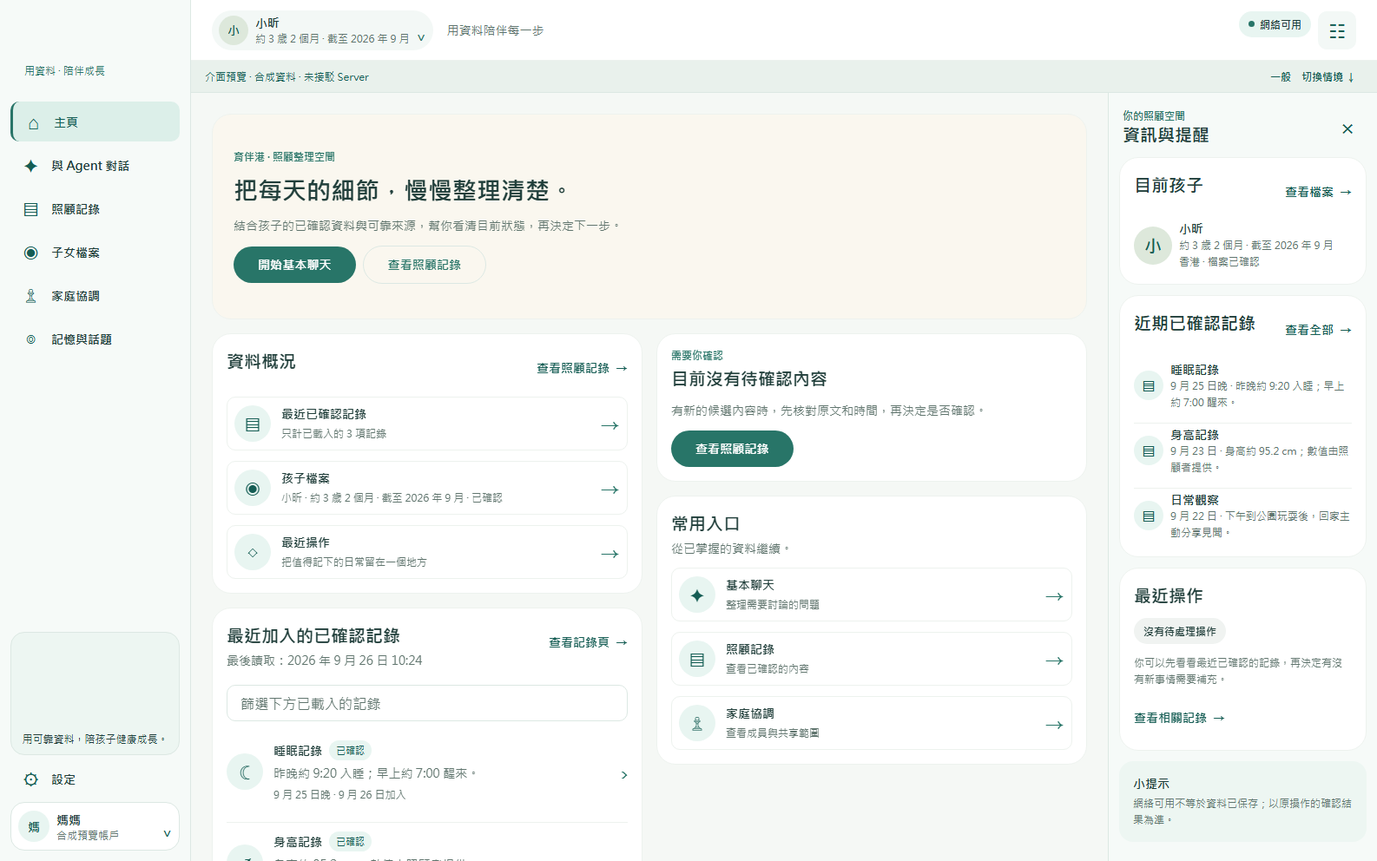
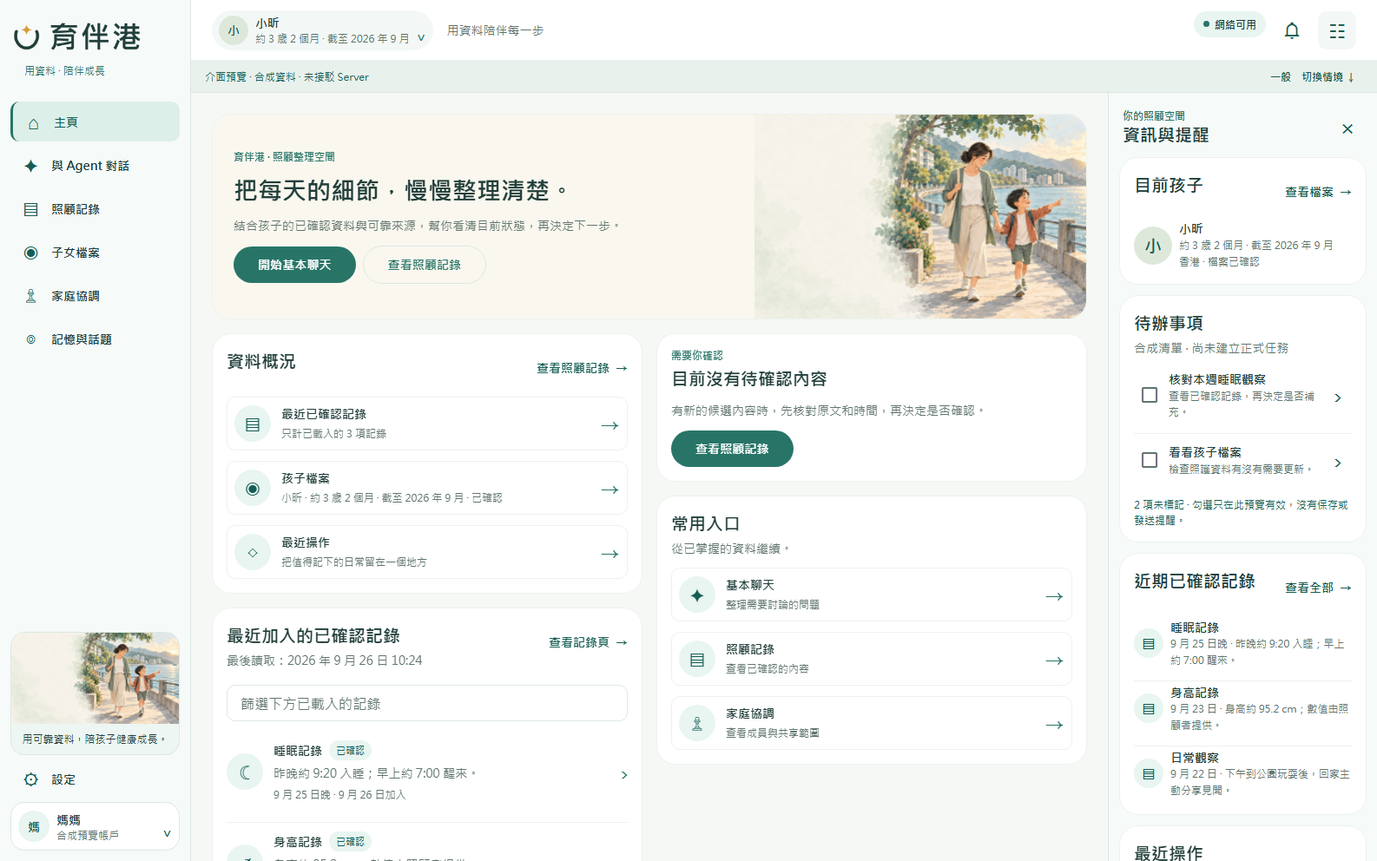
Add frontend preview todos and status bell

diff --git a/frontend/src/components/AppShell.tsx b/frontend/src/components/AppShell.tsx
@@ -3,9 +3,12 @@ import { usePathname, useRouter } from "expo-router";
 import { Image, Pressable, ScrollView, StyleSheet, View, useWindowDimensions } from "react-native";
 import { Button, Dialog, Divider, Modal, Portal, RadioButton, Text } from "react-native-paper";
 import { ConnectionPill, OperationPill, SectionCard, SectionHeader, TextLink } from "./ui";
+import { NotificationBell } from "./NotificationBell";
+import { PreviewTodoCard } from "./PreviewTodoCard";
 import { chineseFont, colors, radius, spacing, typeScale } from "../theme";
-import { scenarioLabels, type PreviewScenario } from "../preview/fixture";
+import { previewChecklist, scenarioLabels, type PreviewScenario } from "../preview/fixture";
 import { usePreview } from "../preview/PreviewContext";
+import type { HomeActions, HomeViewModel } from "../view-model";
 
 const logo = require("../../assets/brand/logo-horizontal.png");
 const harbourArt = require("../../assets/images/harbour-family-hero.png");
@@ -84,10 +87,16 @@ function PreviewToolbar() {
   </View>;
 }
 
-function RightRail({ onClose }: { onClose: () => void }) {
-  const { model, actions } = usePreview();
+function RightRail({ model, actions, checkedPreviewItems, togglePreviewItem, onClose }: {
+  model: HomeViewModel;
+  actions: HomeActions;
+  checkedPreviewItems: Record<string, boolean>;
+  togglePreviewItem: (id: string) => void;
+  onClose: () => void;
+}) {
   const child = model.children.find(item => item.id === model.selectedChildId);
   const records = model.records.filter(item => item.childId === model.selectedChildId).slice(0, 3);
+  const checklist = previewChecklist.filter(item => item.childId === model.selectedChildId);
   return <View style={styles.rail}>
     <View style={styles.railHeader}>
       <View><Text style={styles.railEyebrow}>你的照顧空間</Text><Text accessibilityRole="header" style={styles.railTitle}>資訊與提醒</Text></View>
@@ -101,6 +110,7 @@ function RightRail({ onClose }: { onClose: () => void }) {
           <View style={styles.railIdentityText}><Text style={styles.railRecordTitle}>{child.displayName}</Text><Text style={styles.railMeta}>{child.ageLabel}</Text><Text style={styles.railMeta}>{child.regionLabel} · {child.profileConfirmed ? "檔案已確認" : "檔案待核對"}</Text></View>
         </View> : <Text style={styles.railMeta}>尚未選擇孩子；請先建立檔案。</Text>}
       </SectionCard>
+      <PreviewTodoCard items={checklist} checked={checkedPreviewItems} onToggle={togglePreviewItem} onOpen={actions.open} />
       <SectionCard>
         <SectionHeader title="近期已確認記錄" action={<TextLink label="查看全部" onPress={() => actions.open("care")} />} />
         {model.recordsLoad === "loading" ? <Text style={styles.railMeta}>正在讀取記錄…</Text> : records.length === 0 ? <Text style={styles.railMeta}>目前沒有已載入記錄。</Text> : records.map((record, index) => <View key={record.id}>
@@ -131,9 +141,10 @@ export function AppShell({ children }: { children: ReactNode }) {
   const pathname = usePathname();
   const { width } = useWindowDimensions();
   const compact = width < 900;
-  const tiny = width < 360;
+  const tiny = width < 390;
   const wide = width >= 1280;
-  const { model, notice, dismissNotice } = usePreview();
+  const { model, actions, checkedPreviewItems, togglePreviewItem, notice, dismissNotice } = usePreview();
+  const railProps = { model, actions, checkedPreviewItems, togglePreviewItem };
   const [railOpen, setRailOpen] = useState(true);
   const [railModal, setRailModal] = useState(false);
   const [accountOpen, setAccountOpen] = useState(false);
@@ -166,18 +177,18 @@ export function AppShell({ children }: { children: ReactNode }) {
         {!compact ? <Text numberOfLines={1} style={styles.topContext}>用資料陪伴每一步</Text> : null}
         <View style={styles.topActions}>
           {!compact ? <ConnectionPill state={model.connection} /> : null}
+          <NotificationBell operation={model.operation} connection={model.connection} onReview={actions.reviewOperation} />
           <Pressable accessibilityRole="button" accessibilityLabel={wide && railOpen ? "收起資訊側欄" : "開啟資訊側欄"}
             accessibilityState={{ expanded: wide ? railOpen : railModal }}
             onPress={() => wide ? setRailOpen(value => !value) : setRailModal(true)}
             style={({ pressed }) => [styles.infoAction, tiny && styles.infoActionTiny, pressed && styles.pressed]}><Text style={styles.infoActionText}>☷</Text></Pressable>
-          {compact ? <Pressable accessibilityRole="button" accessibilityLabel="用戶選單" onPress={() => setAccountOpen(true)} style={({ pressed }) => [styles.smallAccount, tiny && styles.smallAccountTiny, pressed && styles.pressed]}><Text style={styles.accountAvatarText}>{model.caregiverName.slice(0, 1)}</Text></Pressable> : null}
         </View>
       </View>
       <PreviewToolbar />
       {notice ? <Pressable accessibilityRole="button" accessibilityLabel="關閉預覽提示" onPress={dismissNotice} style={styles.notice}><Text style={styles.noticeText}>{notice}　×</Text></Pressable> : null}
       <View style={styles.body}>
         <View style={styles.content}>{children}</View>
-        {wide && railOpen ? <RightRail onClose={() => setRailOpen(false)} /> : null}
+        {wide && railOpen ? <RightRail {...railProps} onClose={() => setRailOpen(false)} /> : null}
       </View>
       {compact ? <View style={styles.bottomNav}>
         {navigation.slice(0, 4).map(item => <NavItem key={item.href} item={item} active={active(item.href)} compact />)}
@@ -186,7 +197,7 @@ export function AppShell({ children }: { children: ReactNode }) {
     </View>
     <Portal>
       <Modal visible={railModal && !wide} onDismiss={() => setRailModal(false)} contentContainerStyle={styles.railModal}>
-        <RightRail onClose={() => setRailModal(false)} />
+        <RightRail {...railProps} onClose={() => setRailModal(false)} />
       </Modal>
       <Dialog visible={accountOpen} onDismiss={() => setAccountOpen(false)}>
         <Dialog.Title>用戶與帳戶</Dialog.Title>
@@ -203,6 +214,7 @@ export function AppShell({ children }: { children: ReactNode }) {
           <Button onPress={() => { setMoreOpen(false); router.push("/family"); }}>家庭協調</Button>
           <Button onPress={() => { setMoreOpen(false); router.push("/memory"); }}>記憶與話題</Button>
           <Button onPress={() => { setMoreOpen(false); router.push("/settings"); }}>設定</Button>
+          <Button onPress={() => { setMoreOpen(false); setAccountOpen(true); }}>用戶與帳戶</Button>
         </Dialog.Content>
         <Dialog.Actions><Button onPress={() => setMoreOpen(false)}>關閉</Button></Dialog.Actions>
       </Dialog>
@@ -252,8 +264,6 @@ const styles = StyleSheet.create({
   infoAction: { minWidth: 44, minHeight: 44, backgroundColor: colors.quietSurface, borderRadius: radius.small, alignItems: "center", justifyContent: "center" },
   infoActionTiny: { minWidth: 38, minHeight: 40 },
   infoActionText: { color: colors.deepTeal, fontSize: 23 },
-  smallAccount: { width: 40, height: 40, borderRadius: 20, backgroundColor: colors.paleAmber, alignItems: "center", justifyContent: "center" },
-  smallAccountTiny: { width: 36, height: 36, borderRadius: 18 },
   previewArea: { backgroundColor: colors.previewSurface, borderBottomWidth: 1, borderBottomColor: colors.line },
   previewLine: { minHeight: 36, paddingHorizontal: spacing.lg, flexDirection: "row", alignItems: "center", justifyContent: "space-between", gap: spacing.sm },
   previewLabel: { fontFamily: chineseFont, color: colors.deepTeal, fontSize: typeScale.caption, flexShrink: 1 },

diff --git a/frontend/src/components/PreviewTodoCard.tsx b/frontend/src/components/PreviewTodoCard.tsx
@@ -1,0 +1,58 @@
+import { Platform, Pressable, StyleSheet, View } from "react-native";
+import { Checkbox, Divider, Text } from "react-native-paper";
+import type { PreviewChecklistItem } from "../preview/fixture";
+import { chineseFont, colors, spacing, typeScale } from "../theme";
+import { SectionCard, SectionHeader } from "./ui";
+
+export function PreviewTodoCard({ items, checked, onToggle, onOpen }: {
+  items: PreviewChecklistItem[];
+  checked: Record<string, boolean>;
+  onToggle: (id: string) => void;
+  onOpen: (destination: PreviewChecklistItem["destination"]) => void;
+}) {
+  const remaining = items.filter(item => !checked[item.id]).length;
+  return <SectionCard>
+    <SectionHeader title="待辦事項" subtitle="合成清單 · 尚未建立正式任務" />
+    {items.length === 0 ? <Text style={styles.meta}>目前沒有可顯示的預覽事項。</Text> : items.map((item, index) => <View key={item.id}>
+      {index > 0 ? <Divider style={styles.divider} /> : null}
+      <View style={styles.row}>
+        <Pressable accessibilityRole="checkbox" accessibilityLabel={`在預覽中標記${item.title}`}
+          onPress={() => onToggle(item.id)} style={({ pressed }) => [styles.checkAction, pressed && styles.pressed]}
+            {...(Platform.OS === "web" ? {
+              "aria-checked": !!checked[item.id],
+              onKeyDown: (event: { key?: string; nativeEvent?: { key?: string }; preventDefault: () => void }) => {
+                if ((event.nativeEvent?.key ?? event.key) === " ") {
+                  event.preventDefault();
+                  onToggle(item.id);
+                }
+              },
+            } : { accessibilityState: { checked: !!checked[item.id] } })}>
+          <View pointerEvents="none" importantForAccessibility="no-hide-descendants"><Checkbox status={checked[item.id] ? "checked" : "unchecked"} /></View>
+          <View style={styles.copy}>
+            <Text style={[styles.title, checked[item.id] && styles.checkedTitle]}>{item.title}</Text>
+            <Text style={styles.meta}>{checked[item.id] ? "已在此預覽標記" : item.detail}</Text>
+          </View>
+        </Pressable>
+        <Pressable accessibilityRole="button" accessibilityLabel={`查看${item.title}相關頁面`}
+          onPress={() => onOpen(item.destination)} style={({ pressed }) => [styles.open, pressed && styles.pressed]}>
+          <Text style={styles.openText}>›</Text>
+        </Pressable>
+      </View>
+    </View>)}
+    {items.length > 0 ? <Text style={styles.footer}>{remaining} 項未標記 · 勾選只在此預覽有效，沒有保存或發送提醒。</Text> : null}
+  </SectionCard>;
+}
+
+const styles = StyleSheet.create({
+  row: { minHeight: 60, flexDirection: "row", alignItems: "center", gap: spacing.xs },
+  checkAction: { flex: 1, minWidth: 0, flexDirection: "row", alignItems: "center", gap: spacing.xs },
+  copy: { flex: 1, minWidth: 0, paddingVertical: spacing.xs },
+  title: { fontFamily: chineseFont, color: colors.ink, fontSize: typeScale.small, lineHeight: 20, fontWeight: "700" },
+  checkedTitle: { color: colors.muted, textDecorationLine: "line-through" },
+  meta: { fontFamily: chineseFont, color: colors.muted, fontSize: typeScale.caption, lineHeight: 18 },
+  footer: { fontFamily: chineseFont, color: colors.deepTeal, fontSize: typeScale.caption, lineHeight: 18 },
+  divider: { backgroundColor: colors.softLine },
+  open: { width: 32, minHeight: 40, alignItems: "center", justifyContent: "center" },
+  openText: { color: colors.deepTeal, fontSize: 26 },
+  pressed: { opacity: 0.65 },
+});

diff --git a/frontend/src/components/NotificationBell.tsx b/frontend/src/components/NotificationBell.tsx
@@ -1,0 +1,57 @@
+import { useState } from "react";
+import { StyleSheet, View } from "react-native";
+import { Badge, Button, Dialog, IconButton, Portal, Text } from "react-native-paper";
+import type { ConnectionState, HomeOperation } from "../view-model";
+import { chineseFont, colors, radius, spacing, typeScale } from "../theme";
+import { OperationPill } from "./ui";
+
+const attentionStates = new Set(["needs_confirmation", "failed", "unknown"]);
+
+export function NotificationBell({ operation, connection, onReview }: {
+  operation: HomeOperation;
+  connection: ConnectionState;
+  onReview: () => void;
+}) {
+  const [open, setOpen] = useState(false);
+  const needsAttention = attentionStates.has(operation.state);
+  return <>
+    <View style={styles.anchor}>
+      <IconButton
+        icon="bell-outline" size={22} iconColor={colors.deepTeal}
+        accessibilityLabel={`開啟訊息提示${needsAttention ? "：1 項合成狀態需留意" : ""}`}
+        onPress={() => setOpen(true)} style={styles.button}
+      />
+      <Badge visible={needsAttention} size={18} style={styles.badge}>1</Badge>
+    </View>
+    <Portal><Dialog visible={open} onDismiss={() => setOpen(false)} style={styles.dialog}>
+      <Dialog.Title>訊息提示</Dialog.Title>
+      <Dialog.Content style={styles.content}>
+        <Text style={styles.previewLabel}>合成預覽 · 未接駁站內通知或 Web Push</Text>
+        {operation.state === "none" ? <Text style={styles.body}>目前沒有需要處理的操作提示。</Text> : <>
+          <OperationPill state={operation.state} />
+          <Text style={styles.title}>{operation.title}</Text>
+          <Text style={styles.body}>{operation.detail}</Text>
+        </>}
+        {connection === "offline" ? <Text style={styles.caution}>目前離線；正式版須重讀原操作狀態，不能推斷是否保存。</Text> : null}
+        <Text style={styles.note}>角標只表示此預覽有需留意的狀態，不代表訊息已發送、送達或未讀。</Text>
+      </Dialog.Content>
+      <Dialog.Actions>
+        <Button onPress={() => setOpen(false)}>關閉</Button>
+        {needsAttention ? <Button onPress={() => { setOpen(false); onReview(); }}>{operation.state === "unknown" ? "查核原操作" : "查看原操作"}</Button> : null}
+      </Dialog.Actions>
+    </Dialog></Portal>
+  </>;
+}
+
+const styles = StyleSheet.create({
+  anchor: { width: 44, height: 44, alignItems: "center", justifyContent: "center" },
+  button: { margin: 0 },
+  badge: { position: "absolute", top: 1, right: 1, backgroundColor: colors.coral, color: colors.white },
+  dialog: { width: "92%", maxWidth: 440, alignSelf: "center", borderRadius: radius.large },
+  content: { gap: spacing.sm },
+  previewLabel: { fontFamily: chineseFont, color: colors.deepTeal, fontSize: typeScale.caption, fontWeight: "700" },
+  title: { fontFamily: chineseFont, color: colors.ink, fontSize: typeScale.body, fontWeight: "700" },
+  body: { fontFamily: chineseFont, color: colors.muted, fontSize: typeScale.small, lineHeight: 21 },
+  caution: { fontFamily: chineseFont, color: colors.warningInk, fontSize: typeScale.small, lineHeight: 21 },
+  note: { fontFamily: chineseFont, color: colors.muted, fontSize: typeScale.caption, lineHeight: 18 },
+});

diff --git a/frontend/src/preview/PreviewContext.tsx b/frontend/src/preview/PreviewContext.tsx
@@ -12,6 +12,8 @@ type PreviewContextValue = {
   dismissNotice: () => void;
   chatDraft: string;
   setChatDraft: (value: string) => void;
+  checkedPreviewItems: Record<string, boolean>;
+  togglePreviewItem: (id: string) => void;
 };
 
 const PreviewContext = createContext<PreviewContextValue | null>(null);
@@ -26,6 +28,7 @@ export function PreviewProvider({ children }: { children: ReactNode }) {
   const [selectedChildId, setSelectedChildId] = useState("preview-child-1");
   const [notice, setNotice] = useState<string | null>(null);
   const [chatDrafts, setChatDrafts] = useState<Record<string, string>>({});
+  const [checkedPreviewItems, setCheckedPreviewItems] = useState<Record<string, boolean>>({});
   const refreshTimer = useRef<ReturnType<typeof setTimeout> | null>(null);
   useEffect(() => () => { if (refreshTimer.current) clearTimeout(refreshTimer.current); }, []);
 
@@ -65,6 +68,11 @@ export function PreviewProvider({ children }: { children: ReactNode }) {
     model, scenario, setScenario, actions, notice, dismissNotice: () => setNotice(null),
     chatDraft: chatDrafts[draftKey] ?? "",
     setChatDraft: value => setChatDrafts(previous => ({ ...previous, [draftKey]: value })),
+    checkedPreviewItems,
+    togglePreviewItem: id => {
+      setCheckedPreviewItems(previous => ({ ...previous, [id]: !previous[id] }));
+      setNotice("只在這個合成預覽標記；沒有保存正式任務，也沒有通知家庭成員。");
+    },
   }}>{children}</PreviewContext.Provider>;
 }
 

diff --git a/frontend/src/preview/fixture.ts b/frontend/src/preview/fixture.ts
@@ -2,6 +2,21 @@ import type { HomeChild, HomeOperation, HomeRecord, HomeViewModel, OperationStat
 
 export type PreviewScenario = "normal" | "empty" | "loading" | "offline" | "needs_confirmation" | "saving" | "saved" | "failed" | "unknown";
 
+// Local checklist examples for layout review. These are not S13 tasks or occurrences.
+export interface PreviewChecklistItem {
+  id: string;
+  childId: string;
+  title: string;
+  detail: string;
+  destination: "care" | "profile";
+}
+
+export const previewChecklist: PreviewChecklistItem[] = [
+  { id: "preview-check-sleep", childId: "preview-child-1", title: "核對本週睡眠觀察", detail: "查看已確認記錄，再決定是否補充。", destination: "care" },
+  { id: "preview-check-profile", childId: "preview-child-1", title: "看看孩子檔案", detail: "檢查照護資料有沒有需要更新。", destination: "profile" },
+  { id: "preview-check-after-school", childId: "preview-child-2", title: "整理課後觀察", detail: "查看已載入的課後記錄。", destination: "care" },
+];
+
 export const scenarioLabels: Record<PreviewScenario, string> = {
   normal: "一般", empty: "尚無孩子", loading: "讀取中", offline: "離線",
   needs_confirmation: "待確認", saving: "處理中", saved: "已保存", failed: "失敗", unknown: "結果未知",

diff --git a/frontend/HANDOFF.md b/frontend/HANDOFF.md
@@ -1,6 +1,6 @@
 # 育伴港 Web 前端交接
 
-本文件交接 frontend/** 的獨立畫面包，不改變根目錄 [P2 UI 清單](../docs/P2_UI_HANDOFF.md) 或正式 API／共享型別的權威。FE-W02 分支 codex/fe-w02-web-shell-chat-settings-auth 由 FE-W01 commit e70a13d 延伸；兩包都尚待使用者視覺確認，未自行 merge。正式 P1 登入、孩子、文字記錄及基本聊天在主 App 已可用；P2 有部分功能已落碼並具本機證據，現網仍是 P1，Agent 對話接線、任務、通知等不能從本預覽推斷為已可用。
+本文件交接 frontend/** 的獨立畫面包，不改變根目錄 [P2 UI 清單](../docs/P2_UI_HANDOFF.md) 或正式 API／共享型別的權威。FE-W03 分支 codex/fe-w03-dashboard-todos-notifications 由 FE-W02 commit 271f10b 延伸；三包都尚待使用者視覺確認，未自行 merge。正式 P1 登入、孩子、文字記錄及基本聊天在主 App 已可用；P2 有部分功能已落碼並具本機證據，現網仍是 P1，Agent 對話接線、任務、通知等不能從本預覽推斷為已可用。
 
 ## 前端入口與結構
 
@@ -8,9 +8,10 @@
 |---|---|---|
 | [app](app)、[app/_layout.tsx](app/_layout.tsx) | 前端已完成 | Expo Router 薄路由與 PaperProvider；群組 layout 共用 PreviewProvider／AppShell |
 | [AppShell.tsx](src/components/AppShell.tsx)、[PageFrame.tsx](src/components/PageFrame.tsx) | 前端已完成 | 左導覽、左下設定／用戶、孩子選擇、右資訊欄及窄屏面板、預覽情境、內頁版式 |
+| [PreviewTodoCard.tsx](src/components/PreviewTodoCard.tsx)、[NotificationBell.tsx](src/components/NotificationBell.tsx) | 只屬合成預覽 | 右欄按孩子顯示可本地勾選的清單；頂部鈴鐺按原操作狀態顯示提示及角標，不是 S13 任務或通知資料 |
 | [screens](src/screens) | 前端已完成 | 主頁以 [HomeDashboard.tsx](src/components/HomeDashboard.tsx) 組成；對話、照顧記錄、子女檔案、家庭協調、記憶與話題、設定及登入各自有畫面檔 |
 | [theme.ts](src/theme.ts)、[ui.tsx](src/components/ui.tsx) | 前端已完成 | 單一 token／Paper 主題，品牌按鈕、表單、卡片、共用分頁、連線與操作狀態；全畫面無硬編碼色值 |
-| [view-model.ts](src/view-model.ts)、[preview](src/preview) | 只屬合成預覽 | 孩子、記錄、操作狀態及本地草稿；不是 wire contract、Server 收據或正式資料源 |
+| [view-model.ts](src/view-model.ts)、[preview](src/preview) | 只屬合成預覽 | 孩子、記錄、操作狀態、本地草稿及待辦示例；不是 wire contract、Server 收據或正式資料源 |
 | [verify-web.mjs](scripts/verify-web.mjs)、[screenshots](verification/screenshots) | 前端已完成 | Playwright Core 只測本機合成預覽與瀏覽器版式，不能代替真 API／正式 E2E |
 
 Expo 57.0.24、Router 57.0.22、React Native Web 0.21.2 與正式 repo 現行版本相同。隔離預覽額外使用 React Native Paper 5.15.3 及 Expo SDK 相容的 @expo/vector-icons 15.x；主聊天整合時須核對根依賴與許可，不能直接覆蓋根 package-lock。React Native Web 樣式以 StyleSheet.create 與畫面共置；沒有單一 HTML 或巨型 CSS 檔。
@@ -22,13 +23,13 @@ Expo 57.0.24、Router 57.0.22、React Native Web 0.21.2 與正式 repo 現行版
     $env:__UNSAFE_EXPO_HOME_DIRECTORY = (Join-Path (Get-Location) '.expo-home')
     $env:EXPO_NO_TELEMETRY = '1'
 
-預設瀏覽 http://localhost:8081；若已佔用可用 npm run web -- --port 8082，驗證前設定 FRONTEND_PREVIEW_URL=http://localhost:8082。另執行 npm run typecheck、npm run build:web、npm run verify:web；瀏覽器腳本預設使用本機 Edge，其他環境可設定 BROWSER_EXECUTABLE 指向 Chromium。腳本檢查 1586／1440／1024／390／320 CSS px，八路由在 1440 和 320 px 無整頁橫向溢出，並檢查側欄、情境、孩子切換、草稿、設定及登入的本地互動。截圖在 [verification/screenshots](verification/screenshots)；使用者視覺比較尚待完成。
+預設瀏覽 http://localhost:8081；若已佔用可用 npm run web -- --port 8082，驗證前設定 FRONTEND_PREVIEW_URL=http://localhost:8082。另執行 npm run typecheck、npm run build:web、npm run verify:web；瀏覽器腳本預設使用本機 Edge，其他環境可設定 BROWSER_EXECUTABLE 指向 Chromium。FE-W03 的三項檢查均通過；腳本檢查 1586／1440／1024／390／320 CSS px，八路由在 1440 和 320 px 無整頁橫向溢出，並檢查側欄、待辦勾選、鈴鐺、情境、孩子切換、草稿、設定及登入的本地互動。截圖在 [verification/screenshots](verification/screenshots)，包括桌面鈴鐺及 390 px 右欄；使用者視覺比較尚待完成。
 
 ## 各畫面及正式落點
 
 | Web 預覽 | 前端現況 | 主聊天接線時對照 |
 |---|---|---|
-| / 主頁及右資訊欄 | 合成孩子、已確認記錄投影、最近操作；右欄可關閉／重開 | [RecordsController](../src/client/records-controller.ts)、[CarePanel](../src/client/CarePanel.tsx)、[OnlineReceipt](../src/shared/online.ts)；同一資料來源投影，不另建背景任務／通知台帳 |
+| / 主頁及右資訊欄 | 合成孩子、已確認記錄投影、最近操作；右欄可關閉／重開，新增本地待辦示例；頂部鈴鐺只按原操作狀態提示 | [RecordsController](../src/client/records-controller.ts)、[CarePanel](../src/client/CarePanel.tsx)、[OnlineReceipt](../src/shared/online.ts)；待辦／通知須等 S13 正式契約，不另建前端背景台帳 |
 | /login | 電郵登入／註冊畫面及本地格式檢查；密碼不發送 | [身份 API](../docs/API.md#p1-input-contracts)、[records-api](../src/client/records-api.ts) 與現有 Better Auth；登入／登出、session、錯誤及角色以正式 App 為準 |
 | /chat | 可寫本地未送出問題、示例對話版式；示例回答明示不是 Agent 建議 | P1 [ChatPanel](../src/client/ChatPanel.tsx) 及聊天保存；P2 S11-W02 Agent／引用接線尚待交付，不能把示例當作模型結果 |
 | /care | 已確認記錄時間軸、篩選、詳情及本地共享草稿預覽 | [CarePanel](../src/client/CarePanel.tsx)、[CareRecord](../src/shared/care.ts)；保留原文、來源、事件／加入時間、精度、版本、更正及候選確認 |
@@ -38,6 +39,24 @@ Expo 57.0.24、Router 57.0.22、React Native Web 0.21.2 與正式 repo 現行版
 | /settings | 帳戶、孩子、家庭、偏好、私隱分頁；本地顯示名稱／安靜時段／預約例外預覽 | 現有身份與 S06-W02 本人偏好／家庭資料；正式保存、權限與各通知渠道須按 [P2 UI 清單](../docs/P2_UI_HANDOFF.md) 接線 |
 
 主聊天整合時由正式控制器投影資料到畫面，將合成 fixture 排除於正式資料來源。切換孩子要先隔離舊孩子的可見資料／未完成請求；預覽只示意孩子分開及當頁草稿隔離，沒有驗證 Server 授權。登出、撤權、刪除及帳號切換須沿用正式控制器清理規則。
+
+## 已有功能與 Web 預覽之間的缺口
+
+以下比較對象是 frontend/** 的隔離預覽，並非聲稱主 App 沒有畫面。優先按根目錄 [P2 UI 清單](../docs/P2_UI_HANDOFF.md) 及 [PLAN](../PLAN.md) 的實際工作包狀態對接；參考圖中的 Google／Apple 登入、儲存用量與疫苗百分比沒有現成產品契約，不列為已承諾功能。
+
+| 功能與目前正式狀態 | 此預覽仍缺的操作 | 後續責任 |
+|---|---|---|
+| P1 登入／基本聊天已可用；S07-W03 原操作收據與刷新已落碼 | /login 不建立真 session，/chat 只新增本地未送出文字；全畫面沒有真 opId 查核、跨端刷新和權限失效流程 | 主聊天沿現有身份、ChatPanel、online transport 接線及真服務驗收；前端按真狀態補齊畫面 |
+| S05-W02 孩子檔案、已確認記錄、更正歷史、時間軸及搜尋已落碼 | /care 只有對已載入示例的本地篩選，沒有跨頁搜尋／搜尋 cursor 失效、原文來源、版本、更正操作與歷史；/profile 只預覽自由文字草稿，未有結構化年齡基準及共享範圍表單 | 下一個相關 Web 畫面包應先設計真搜尋與記錄／檔案細節；主聊天按 CarePanel／共享型別接線 |
+| S06-W02 家庭角色／邀請／撤權及本人通知偏好已落碼 | /family 只預覽邀請內容，沒有接受邀請、成員角色變更及撤權流程；/settings 偏好輸入不保存 | 前端補真操作狀態；主聊天接 FamilyPanel、本人偏好及權限清理 |
+| S09-W02 記憶事實、話題終態及摘要覆蓋已落碼 | /memory 只示意候選／話題，沒有確認、共享、更正、停用／刪除、重開、版本衝突及摘要覆蓋操作 | 前端按 MemoryPanel 已交付契約補完整控制；主聊天接線與驗收 |
+| S13-W01 任務與 occurrence、S13-W04 執行台帳尚未開始 | 新增右欄待辦只是按孩子分隔的本地示例；沒有建立、到期／時區、指派、改期、完成、取消、跨成員同步或正式任務頁 | 待 S13 契約交付後另立前端任務包；主聊天處理 Server／worker／正式接線 |
+| S06-W02 只有通知偏好；S13-W05 Web Push、S13-W06 Telegram 及投遞台帳尚未開始 | 鈴鐺只提示合成原操作狀態；沒有通知識別碼、未讀數、訂閱、安靜時段執行、投遞／已讀／回應證據 | 待通知契約交付再建立真訊息中心及渠道設定；主聊天接通知服務與接收者授權 |
+| S11-W02 Agent／引用、S12-W03／W04 照片與分享、S13-W08 成長關注、S14-W01 到診摘要尚未開始 | /chat 沒有真 Agent 結果／官方片段／附件；沒有照片確認、成長關注處理及到診摘要專頁 | 等相關業務包交付，再逐屏做 Web；不能由截圖造百分比或可信來源 |
+
+本地待辦的勾選只保存在 PreviewProvider 記憶體，重新載入即重置；切換孩子只顯示該孩子的項目，沒有改動正式資料。鈴鐺角標只在「待確認／失敗／結果未知」出現，數字是合成狀態提示數，不是未讀訊息數。正式任務的「完成」要依 S13 occurrence 終態；訊息的「接受／送達／已讀／回應」與照護完成須各有獨立證據，不能用本地勾選推導。Web 上 Paper Checkbox 5.15.3 的裸控制項未提供此組合需要的 Space 與 aria-checked，預覽外層 Pressable 補上 Web 鍵盤及可讀取狀態；日後升級須重驗。
+
+窄屏右欄由 Paper Portal 顯示。FE-W03 檢查發現 Portal 內的右欄直接呼叫 usePreview 會失去 Provider 而報錯，現由 AppShell 傳入資料與回調；正式接線及其他彈出層應沿用此邊界，並實測開啟與關閉。
 
 ## 狀態語義與未接功能
 
@@ -49,6 +68,6 @@ Expo 57.0.24、Router 57.0.22、React Native Web 0.21.2 與正式 repo 現行版
 | 失敗 | 確知原操作未成功；保留輸入供使用者處理 | 保留預覽草稿 |
 | 結果未知 | 原操作終態未查明 | 顯示「查核原操作」；正式版須以原 opId 查核，不換 ID 自動重送 |
 
-參考圖中以下元素尚未在本包做成真操作：Agent 工具進度／百分比、官方來源引用與生成建議、附件／照片／咪高峰、背景任務與到期提醒、通知 badge／Web Push／Telegram、疫苗或成長數據分析、跨資料搜尋、手機／Google／Apple 登入與忘記密碼、儲存用量／方案／匯出／刪除帳戶。P2 相關工作包及目前可用範圍見根目錄 [P2 UI 清單](../docs/P2_UI_HANDOFF.md)；無完整契約的項目不應僅依參考圖補假按鈕。
+參考圖中以下元素尚未在本包做成真操作：Agent 工具進度／百分比、官方來源引用與生成建議、附件／照片／咪高峰、正式背景任務與到期提醒、真未讀通知／Web Push／Telegram、疫苗或成長數據分析、跨資料搜尋、手機／Google／Apple 登入與忘記密碼、儲存用量／方案／匯出／刪除帳戶。P2 相關工作包及目前可用範圍見根目錄 [P2 UI 清單](../docs/P2_UI_HANDOFF.md)；無完整契約的項目不應僅依參考圖補假按鈕。
 
 正式接線完成還需要主聊天核對真 API、session／權限、原操作收據、切換孩子及登出清理，並執行其 S16-W05 正式瀏覽器測試。前端預覽驗證與正式 E2E 分開；整套 Web 視覺尚待使用者確認，Android 尚未開始。

diff --git a/frontend/DESIGN_SYSTEM.md b/frontend/DESIGN_SYSTEM.md
@@ -7,6 +7,7 @@
 - 暖白、淡綠作大面積背景；深綠文字；青綠只標示主要操作。琥珀代表待確認／結果未知，珊瑚代表明確失敗；顏色必配文字，不以顏色單獨傳達狀態。
 - 一個頁面只有清楚的主標題，下面用短說明交代資料範圍；卡片標題、內容、來源／時間次序固定。對話有訊息氣泡、來源區和底部輸入；設定有分頁、資料列及明確未保存提示；登入以品牌故事與表單分區。
 - 寬桌面用左導覽、主內容、常駐右資訊欄。設定與用戶固定在左下；右欄可關閉及重開。中寬或窄視窗的右欄改為可開啟面板，手機瀏覽器用底部導覽與「更多」入口，不遺失家庭／記憶／設定路由。
+- 右資訊欄先顯示目前孩子與待辦摘要，再顯示已確認記錄及原操作狀態。待辦示例的勾選只在本地預覽有效；頂部鈴鐺的角標只代表需留意的原操作狀態，不代表通知已送達或未讀。窄視窗保留鈴鐺及資訊面板入口，帳戶入口放在底部「更多」。
 - 以 [theme.ts](src/theme.ts) 為唯一色彩、間距、字級和 Paper 主題來源。現行間距為 4／8／12／16／24／32／40 px，圓角 10／16／22 px 及膠囊形，字級 12／14／16／20／28／34 px。Web 使用系統繁體中文字體堆疊，不從外站載入字體。
 
 ## 共用組件與規則
@@ -16,6 +17,7 @@
 | 色彩、字體與尺寸 | [theme.ts](src/theme.ts) | 所有使用 token 的畫面、Paper 按鈕／表單／Dialog；新增狀態色先加語義 token，不逐頁寫色碼 |
 | 基本控制項 | [ui.tsx](src/components/ui.tsx) 的 AppButton、AppTextField、SectionCard、SectionHeader、TextLink、UnderlineTabs、OperationPill、ConnectionPill | 按鈕高度／字重、輸入框、卡片、設定／記憶分頁與狀態標籤；只封裝品牌及重複語義 |
 | 共同外殼 | [AppShell.tsx](src/components/AppShell.tsx)、[PageFrame.tsx](src/components/PageFrame.tsx) | 左導覽、孩子切換、資訊欄、預覽情境、內頁標題與內容間距 |
+| 待辦與提示 | [PreviewTodoCard.tsx](src/components/PreviewTodoCard.tsx)、[NotificationBell.tsx](src/components/NotificationBell.tsx) | 跨頁一致的右欄待辦示例及頂部原操作提示；兩者只處理展示與本地交互，不擔當正式任務／通知協議 |
 | 畫面與路由 | [screens](src/screens)、[app](app) | 每頁只組合現有元件；app 內只保留路由與 layout 入口 |
 | 合成狀態 | [view-model.ts](src/view-model.ts)、[preview](src/preview) | 孩子、記錄、連線及原操作展示；不是 Server 契約或正式資料源 |
 
@@ -23,4 +25,4 @@
 
 ## 狀態與圖片差異
 
-待確認是候選、處理中是原操作等結果、已保存須有可信收據、失敗須確知未成功、結果未知須以原 opId 查核，網絡可用不代表保存。合成預覽可切換版式，但不能冒稱收到真收據。沒有完整接線的 Agent 百分比、背景任務、通知 badge、附件／咪高峰、疫苗數字、儲存用量和第三方登入不做成假按鈕；由 [HANDOFF](HANDOFF.md) 列明後續責任。
+待確認是候選、處理中是原操作等結果、已保存須有可信收據、失敗須確知未成功、結果未知須以原 opId 查核，網絡可用不代表保存。合成預覽可切換版式，但不能冒稱收到真收據。現有待辦勾選及鈴鐺角標均明示合成來源；沒有完整接線的 Agent 百分比、正式背景任務／通知、附件／咪高峰、疫苗數字、儲存用量和第三方登入不做成假操作；由 [HANDOFF](HANDOFF.md) 列明後續責任。

diff --git a/frontend/PLAN.md b/frontend/PLAN.md
@@ -6,9 +6,12 @@
 |---|---|---|---|
 | 1 | FE-W01 Web 主頁基線 | 待使用者視覺驗收 | 獨立 Expo Web 預覽、資料模型、Paper 共用元件、合成狀態與響應式首頁；原分支 codex/fe-w01-web-home |
 | 2 | FE-W02 Web 共用框架與核心畫面 | 待使用者視覺驗收 | 依新增對話／設定／登入參考圖，完成共用導覽及右資訊欄、主頁、對話、照顧記錄、子女檔案、家庭協調、記憶與話題、設定及登入畫面；所有資料仍屬合成預覽；本包分支 codex/fe-w02-web-shell-chat-settings-auth，基於 FE-W01 commit e70a13d |
-| 3 | Web 整套確認與正式接線 | 待主聊天及使用者 | 使用者比較全部 Web 畫面並明確確認；主聊天按 [HANDOFF](HANDOFF.md) 對正式 App 的既有 API／控制器接線與真服務驗收。未接通 P2 功能須等其業務包交付，不以預覽代替 |
-| 4 | Android 前端 | 未開始 | 第 3 項經明確確認後另立 Android 計劃與真機驗收；390／320 CSS px 只是手機瀏覽器 Web |
+| 3 | FE-W03 待辦預覽與訊息提示 | 待使用者視覺驗收 | 在 FE-W02 的右資訊欄加入按孩子分隔的本地清單、頂部鈴鐺及原操作狀態提示；對照正式功能缺口並交接。分支 codex/fe-w03-dashboard-todos-notifications，基於 FE-W02 commit 271f10b。正式任務／通知待其業務契約交付 |
+| 4 | Web 已有契約的操作畫面 | 未開始 | 先補 /care 真搜尋／記錄更正及 /profile 結構化檔案，再按交接清單處理 /family 角色邀請、/memory 生命週期、/settings 本人偏好；前端只做畫面與狀態，正式接線由主聊天負責 |
+| 5 | Web 待業務契約的畫面 | 等候所屬工作包 | S13 任務／通知、S11 Agent／引用、S12 照片／分享、S13 成長關注及 S14 摘要等須先有已交付契約，逐包實作，不從截圖推造功能 |
+| 6 | Web 整套確認與正式接線 | 待主聊天及使用者 | 使用者比較全部 Web 畫面並明確確認；主聊天按 [HANDOFF](HANDOFF.md) 對正式 App 的既有 API／控制器接線與真服務驗收。未接通 P2 功能須等其業務包交付，不以預覽代替 |
+| 7 | Android 前端 | 未開始 | 第 6 項經明確確認後另立 Android 計劃與真機驗收；390／320 CSS px 只是手機瀏覽器 Web |
 
-FE-W02 的可獨立驗收範圍是前端畫面結構、共用設計系統、合成互動及交接；不宣稱 P2 產品功能或正式 Web 已完成。使用者要求持續完成 Web 畫面，因此本包涵蓋現有契約可界定的核心路由；圖片中的通知、任務、附件、Agent 工具進度等未接線能力記於 [HANDOFF](HANDOFF.md)，待主聊天業務包成熟後才開相關前端包。
+FE-W03 的可獨立驗收範圍是右欄待辦版式與本地勾選、鈴鐺原操作提示、Web 響應式／鍵盤檢查及功能缺口交接；不宣稱 S13 任務、正式站內通知、Web Push 或正式 Web 已完成。下一批真正任務／通知流程必須先核對所屬業務包的已交付契約，不依參考圖推造任務完成或訊息送達。
 
-每包依 [WORKFLOW](WORKFLOW.md) 核對 active worktree、提取設計規則、實作、typecheck／Web build／預覽檢查及展示畫面。FE-W02 不自行合併 FE-W01；主聊天整合時須按依賴順序處理，避免把兩包當作已在 master 生效。
+每包依 [WORKFLOW](WORKFLOW.md) 核對 active worktree、提取設計規則、實作、typecheck／Web build／預覽檢查及展示畫面。FE-W03 不自行合併前兩包；主聊天整合時須按 FE-W01 → FE-W02 → FE-W03 的依賴順序處理，避免把預覽包當作已在 master 生效。

diff --git a/frontend/.agents/skills/web-screen-delivery/SKILL.md b/frontend/.agents/skills/web-screen-delivery/SKILL.md
@@ -8,8 +8,8 @@ description: 在育伴港 frontend/ 獨立 Expo Web 預覽中，依 UI 參考圖
 適用 frontend/ 的 Web 畫面工作包。先依 [前端流程](../../../WORKFLOW.md)核對根目錄功能真況、active worktree、參考圖規則與待接線範圍；本 Skill 不覆蓋根目錄的產品或 API 決策。
 
 1. 從參考圖提取可重用的顏色、層次、密度、導覽、表單與狀態規則，更新 [設計規則](../../../DESIGN_SYSTEM.md)。不複製圖片中的假功能、假資料或與育伴港 Logo／美術衝突的元素。
-2. 沿用現有 Expo Router 結構：app/ 只保留路由與 layout 入口，畫面實作在 src/screens/，共享外殼與 Paper 薄封裝在 src/components/，主題 tokens 在 src/theme.ts，合成 fixture 與前端狀態在 src/preview/。不用為了套新版模板遷移已存在的路由根。組件樣式以 StyleSheet.create 共置，不造單一 HTML／CSS 巨檔。
-3. React Native Paper 5.x 提供 Button、TextInput、Dialog、Checkbox、Switch 等成熟控制項；只封裝品牌及反覆出現的語義。新增 icon 時先用 expo install 選 SDK 相容版。若官方文件與本版 Web 實測衝突，以可重現的 build／瀏覽器結果修正局部做法，記在交接文件。
+2. 沿用現有 Expo Router 結構：app/ 只保留路由與 layout 入口，畫面實作在 src/screens/，共享外殼與 Paper 薄封裝在 src/components/，主題 tokens 在 src/theme.ts，合成 fixture 與前端狀態在 src/preview/。不用為了套新版模板遷移已存在的路由根。組件樣式以 StyleSheet.create 共置，不造單一 HTML／CSS 巨檔。Paper Portal 內若要展示共用狀態，由外殼傳入資料與回調，避免在移動後的子樹重新讀取預覽 context；本版窄屏資訊欄曾因此出錯，須納入開欄檢查。
+3. React Native Paper 5.x 提供 Button、TextInput、Dialog、Checkbox、Switch 等成熟控制項；只封裝品牌及反覆出現的語義。新增 icon 時先用 expo install 選 SDK 相容版。本版 Web 實測中，裸 Checkbox／Checkbox.Item 未提供清單所需的 Space 操作與 aria-checked；需要逐項驗鍵盤和讀屏狀態，必要時以可聚焦的 Pressable 包裝 Paper 視覺控制項，並在 Web 明確補狀態。若官方文件與本版 Web 實測衝突，以可重現的 build／瀏覽器結果修正局部做法，記在交接文件。
 4. 畫面由資料模型和操作回調驅動；合成預覽清楚標示不連 Server。待確認、處理中、已保存、失敗、結果未知各自呈現；網絡可用不等於保存。切換孩子時隔離可見資料和草稿；正式版的權限、收據與原 opId 查核由主聊天接線。
 5. 完成後跑 npm run typecheck、npm run build:web 及 npm run verify:web；至少核對 1440／1024／390／320 CSS px、鍵盤、關閉／重開側欄、空／載入／離線與適用操作狀態。展示實際截圖，更新前端 STATUS／PLAN／HANDOFF，逐項標明「前端已完成／只屬合成預覽／待接線」。
 

diff --git a/frontend/STATUS.md b/frontend/STATUS.md
@@ -6,6 +6,9 @@
 |---|---|---|---|
 | FE-W01 Web 主頁基線 | 待使用者視覺驗收 | 隔離 Expo Web 預覽、共用主題／元件、合成資料與首頁已交付 | 使用者比較；正式接線由主聊天另行整合 |
 | FE-W02 Web 共用框架與核心畫面 | 待使用者視覺驗收 | 八個 Web 路由與共用外殼、可關閉右資訊欄、左下設定／用戶、手機瀏覽器重排及本地互動已實作；typecheck、Web build、預覽瀏覽器檢查通過 | 使用者比較視覺與流程；正式 API、登入會話、權限與保存收據待主聊天接線及真服務驗收 |
+| FE-W03 待辦預覽與訊息提示 | 待使用者視覺驗收 | 右資訊欄增加按孩子分隔的本地待辦示例；頂部鈴鐺展示原操作需留意狀態。勾選、鍵盤和彈窗可操作，typecheck、Web build、預覽瀏覽器檢查通過；沒有正式任務或通知 | 使用者比較；S13-W01 任務及 S13-W05／W06 通知業務包尚未交付，正式接線由主聊天處理 |
 | Android 前端 | 未開始 | 無 Android App 實作或真機證據 | 整套 Web 經使用者明確確認後另立計劃 |
 
-FE-W02 的畫面資料、孩子、家長、記錄與操作狀態均為合成預覽；沒有向 Server 發送請求。正式 P1／P2 可用範圍及未接通項目見 [HANDOFF](HANDOFF.md) 與根目錄 [P2 UI 清單](../docs/P2_UI_HANDOFF.md)。Web 前端畫面可供比較，不等於正式產品接線完成。
+FE-W01 至 FE-W03 的畫面資料、孩子、家長、記錄、待辦與操作狀態均為合成預覽；沒有向 Server 發送請求。正式 P1／P2 可用範圍及此 Web 預覽仍缺的介面見 [HANDOFF](HANDOFF.md) 與根目錄 [P2 UI 清單](../docs/P2_UI_HANDOFF.md)。Web 前端畫面可供比較，不等於正式產品接線完成。
+
+下一個可獨立驗收的前端包優先補已有契約的照顧記錄搜尋／更正與子女檔案結構化細節；任務和通知正式流程仍等各自業務契約。
